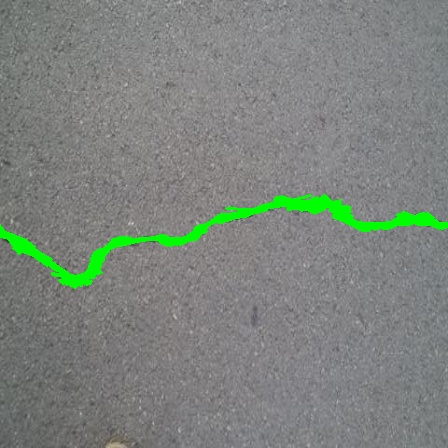
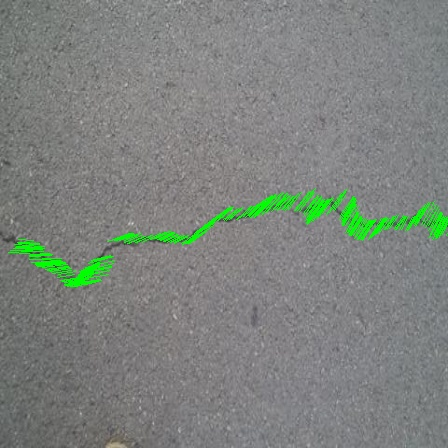
.

Changed region(s): [[0.4688, 0.4062, 1.0, 0.5625], [0.0, 0.5, 0.4688, 0.6562]]

diff --git a/adaptive_pca_sam/adaptive_pca_test.py b/adaptive_pca_sam/adaptive_pca_test.py
@@ -5,14 +5,14 @@ from sklearn.decomposition import PCA
 
 def adaptive_pca_on_mask(mask, stride=10, window_size=15, min_points=10):
     """
-    Run adaptive PCA on connected regions of a binary mask to fit direction lines.
-    Returns a list of lines [(x1, y1, x2, y2), ...].
+    Run adaptive PCA on binary mask and compute local crack widths.
+    Returns list of (x1, y1, x2, y2, width).
     """
     points = np.column_stack(np.where(mask > 0))  # (y, x)
     if len(points) < min_points:
         return []
 
-    lines = []
+    results = []
     for i in range(0, len(points), stride):
         y0, x0 = points[i]
         y_min = max(y0 - window_size, 0)
@@ -24,26 +24,62 @@ def adaptive_pca_on_mask(mask, stride=10, window_size=15, min_points=10):
         if len(local_points) < min_points:
             continue
 
-        local_points += [y_min, x_min]  # shift back to global coords
+        local_points += [y_min, x_min]  # shift to global
         pca = PCA(n_components=2)
         pca.fit(local_points)
+
         center = np.mean(local_points, axis=0)
-        direction = pca.components_[0]
+        v_main = pca.components_[0]
+        v_perp = pca.components_[1]
 
-        line_length = 20
-        x1, y1 = center + direction * line_length
-        x2, y2 = center - direction * line_length
-        lines.append((int(y1), int(x1), int(y2), int(x2)))
-    return lines
+        # Project all local points onto perpendicular axis
+        projections = local_points @ v_perp
+        crack_width = projections.max() - projections.min()
 
-def draw_lines_on_image(image, lines, color=(0, 255, 0), thickness=2):
+        # Flip PCA to maintain consistent direction
+        #if len(results) > 0:
+        #    prev_dir = np.array([results[-1][0] - results[-1][2], results[-1][1] - results[-1][3]])
+        #    if np.dot(v_main, prev_dir) < 0:
+        #        v_main = -v_main
+
+        # Extend direction line for visualization
+        length = 20
+        x1, y1 = center + v_main * length
+        x2, y2 = center - v_main * length
+        results.append((int(y1), int(x1), int(y2), int(x2), crack_width))
+
+    return results
+
+def draw_crack_width_lines(image, results, color=(0, 255, 0), thickness=1):
     """
-    Draw a list of lines on an image.
+    Draw perpendicular crack width lines at each PCA point.
     """
     image_copy = image.copy()
-    for (x1, y1, x2, y2) in lines:
-        cv2.line(image_copy, (x1, y1), (x2, y2), color, thickness)
+    for (cx, cy, dx, dy, width) in results:
+        # Perpendicular unit vector
+        perp = np.array([-dy, dx], dtype=np.float32)
+        perp /= np.linalg.norm(perp) + 1e-6
+
+        half_width = width / 2.0
+        pt1 = (int(cx + perp[0] * half_width), int(cy + perp[1] * half_width))
+        pt2 = (int(cx - perp[0] * half_width), int(cy - perp[1] * half_width))
+
+        cv2.line(image_copy, pt1, pt2, color, thickness)
+        # Optional: draw width as text
+        # mid = (int(cx), int(cy))
+        # cv2.putText(image_copy, f"{width:.1f}", mid, cv2.FONT_HERSHEY_SIMPLEX, 0.4, (0, 0, 255), 1)
+
     return image_copy
+
+def load_image_and_mask(image_path, mask_path):
+    """
+    Load original image and binary mask (both grayscale).
+    """
+    image = cv2.imread(image_path)
+    mask = cv2.imread(mask_path, cv2.IMREAD_GRAYSCALE)
+    if mask.max() > 1:
+        _, mask = cv2.threshold(mask, 127, 255, cv2.THRESH_BINARY)
+    return image, mask
 
 def load_image_and_mask(image_path, mask_path):
     """
@@ -59,7 +95,7 @@ def run_adaptive_pca_pipeline(image_path, mask_path, output_path):
     """
     image, mask = load_image_and_mask(image_path, mask_path)
     lines = adaptive_pca_on_mask(mask)
-    result = draw_lines_on_image(image, lines)
+    result = draw_crack_width_lines(image, lines)
     cv2.imwrite(output_path, result)
     print(f"[✓] Saved result to {output_path}")
 
